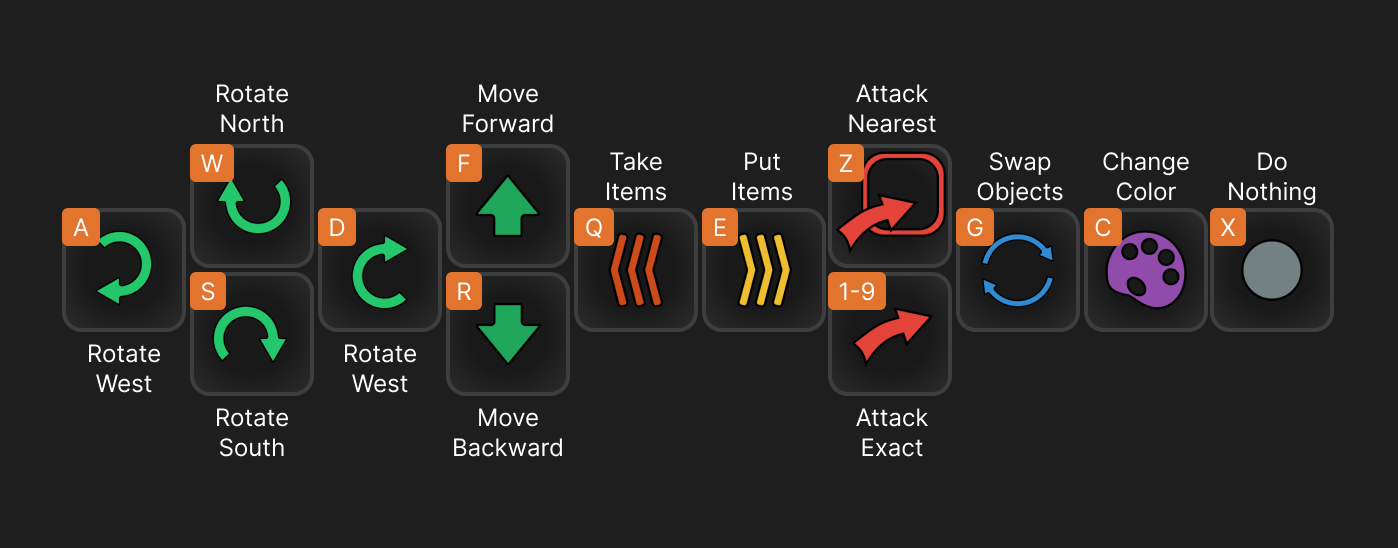
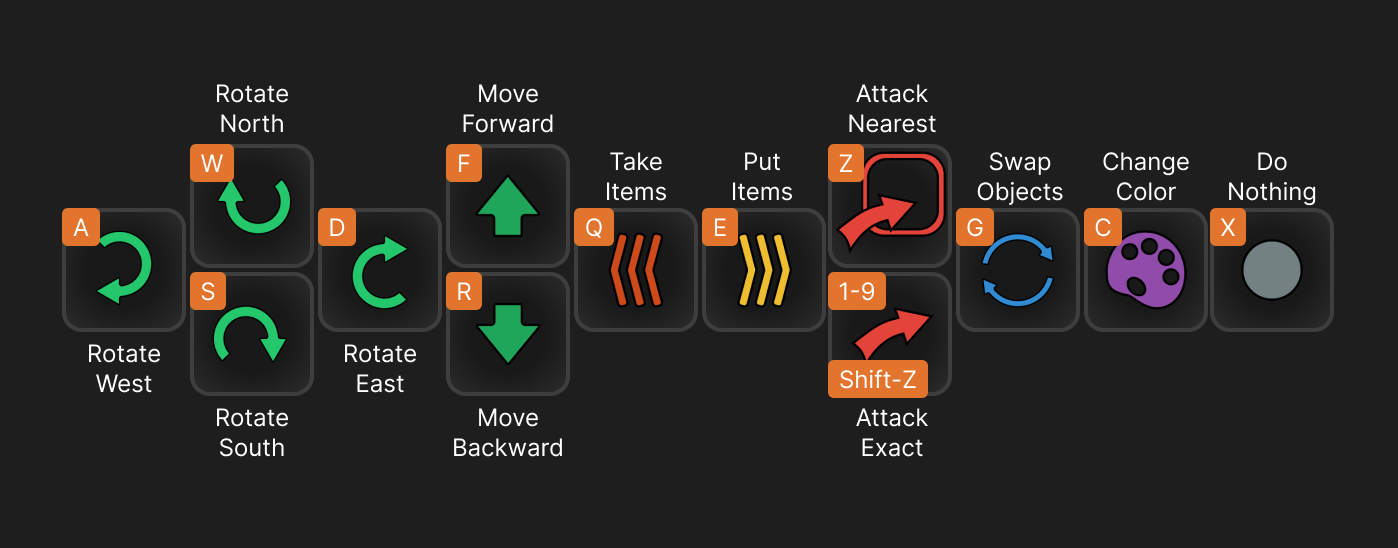
Update help page with improved layout and updated agent controls image

Changed region(s): [[0.5844, 0.6515, 0.6767, 0.7445], [0.2461, 0.6825, 0.3076, 0.7135]]

diff --git a/mettascope/mettascope_info.html b/mettascope/mettascope_info.html
@@ -6,39 +6,39 @@ body {
   background-color: #101a24;
   color: white;
   font-family: sans-serif;
-  line-height: 1.4;
-  padding: 20px;
+  line-height: 1.2;
+  padding: 15px;
   max-width: 800px;
   margin: 0 auto;
 }
 
 h1 {
   color: #24C76B;
-  font-size: 2em;
+  font-size: 1.4em;
   margin-top: 0;
-  margin-bottom: 0.3em;
+  margin-bottom: 0.2em;
   text-align: center;
 }
 
 h2 {
   color: #24C76B;
-  font-size: 1.5em;
-  margin-top: 1em;
-  margin-bottom: 0.5em;
+  font-size: 1.2em;
+  margin-top: 0.8em;
+  margin-bottom: 0.3em;
   border-bottom: 2px solid #24C76B;
-  padding-bottom: 0.2em;
+  padding-bottom: 0.1em;
 }
 
 h3 {
   color: #24C76B;
-  font-size: 1.2em;
-  margin-top: 0.8em;
-  margin-bottom: 0.4em;
+  font-size: 1em;
+  margin-top: 0.6em;
+  margin-bottom: 0.3em;
 }
 
 p {
-  margin-bottom: 0.8em;
-  font-size: 1em;
+  margin-bottom: 0.6em;
+  font-size: 0.85em;
 }
 
 a {
@@ -58,13 +58,13 @@ img {
 }
 
 ul, ol {
-  margin: 0.5em 0 1em 0;
-  padding-left: 1.2em;
+  margin: 0.3em 0 0.8em 0;
+  padding-left: 1em;
 }
 
 li {
-  margin-bottom: 0.5em;
-  font-size: 1em;
+  margin-bottom: 0.3em;
+  font-size: 0.85em;
 }
 
 strong {
@@ -74,9 +74,9 @@ strong {
 
 .controls-section {
   background-color: rgba(36, 199, 107, 0.1);
-  padding: 1em;
-  border-radius: 8px;
-  margin: 0.8em 0;
+  padding: 0.8em;
+  border-radius: 6px;
+  margin: 0.6em 0;
 }
 
 .features-list {
@@ -113,144 +113,28 @@ strong {
 .keyboard-controls {
   display: grid;
   grid-template-columns: repeat(2, 1fr);
-  gap: 0.5em;
-  margin: 0.5em 0;
+  gap: 0.3em;
+  margin: 0.3em 0;
 }
 
 .keyboard-control {
   background-color: rgba(36, 199, 107, 0.1);
-  padding: 0.3em;
+  padding: 0.2em;
   border-radius: 4px;
+  font-size: 0.85em;
 }
 
 .key {
   font-family: monospace;
   background-color: #2a2a2a;
-  padding: 0.2em 0.5em;
+  padding: 0.1em 0.4em;
   border-radius: 3px;
-  margin-right: 0.5em;
+  margin-right: 0.4em;
+  font-size: 0.85em;
 }
 </style>
 </head>
 <body>
-
-<h1>MettaScope</h1>
-
-<p>
-A visualization tool for analyzing and understanding AI agent behavior in Metta environments. MettaScope provides detailed insights into agent actions, decisions, and performance through an interactive interface.
-</p>
-
-<h2>Metta</h2>
-
-<p>
-Metta AI represents a sophisticated approach to multi-agent reinforcement learning, combining advanced neural architectures with carefully designed social mechanics. At its core, the system operates in a grid-based world where AI agents must learn to navigate, collect resources, and cooperate with others.
-</p>
-
-<p>
-The agent architecture features a three-component design:
-</p>
-
-<ul>
-  <li><strong>Convolutional Neural Network (CNN)</strong>: Processes spatial information across 34 channels, including agent positions, resource locations, obstacles, and team affiliations</li>
-  <li><strong>Long Short-Term Memory (LSTM)</strong>: Enables temporal reasoning and memory of past interactions</li>
-  <li><strong>Self-Knowledge Network</strong>: Manages internal state, including position, resources, health, and goals</li>
-</ul>
-
-<p>
-Agents operate in teams, typically containing six members, with relationship scores assigned at the start of the simulation. The reward sharing mechanism operates on a 50-50 split between team members, creating a complex optimization problem where agents must balance individual goals with team objectives. Learning how to cooperate with larger and more specialized groups represents the core agent intelligence development challenge.
-</p>
-
-<h2>What exactly am I looking at?</h2>
-
-<p>
-In this visualization, you're watching AI agents navigate and interact in a grid-based world. Here's what's happening:
-</p>
-
-<div class="controls-section">
-  <h3>Resource Collection</h3>
-  <p>
-    Agents are constantly searching for and collecting resources, particularly hearts (❤) which appear as glowing items in the environment. When an agent finds a heart, they can:
-  </p>
-  <ul>
-    <li><strong>Collect Hearts</strong>: Use the 'Q' key to pick up hearts when standing next to them</li>
-    <li><strong>Store Resources</strong>: Hearts and other resources are stored in the agent's inventory</li>
-    <li><strong>Share Resources</strong>: Agents can share resources with team members to help the group survive</li>
-  </ul>
-</div>
-
-<div class="controls-section">
-  <h3>Combat and Defense</h3>
-  <p>
-    Agents can engage in combat with other agents:
-  </p>
-  <ul>
-    <li><strong>Freezing Attacks</strong>: Agents can freeze other agents using the 'Z' key (nearest target) or number keys 1-9 (specific targets)</li>
-    <li><strong>Team Defense</strong>: Agents work together to protect team members and shared resources</li>
-    <li><strong>Strategic Positioning</strong>: Agents must position themselves carefully to avoid being frozen while protecting their resources</li>
-  </ul>
-</div>
-
-<div class="controls-section">
-  <h3>Movement and Navigation</h3>
-  <p>
-    Agents move through the world using a combination of:
-  </p>
-  <ul>
-    <li><strong>Rotation</strong>: Use 'W', 'A', 'S', 'D' to rotate the agent in different directions</li>
-    <li><strong>Forward/Backward</strong>: 'F' to move forward, 'R' to move backward</li>
-    <li><strong>Resource Management</strong>: 'E' to put down items, 'G' to swap objects with other agents</li>
-  </ul>
-</div>
-
-<div class="controls-section">
-  <h3>Team Coordination</h3>
-  <p>
-    The most fascinating aspect is watching how agents coordinate their actions to achieve team objectives:
-  </p>
-  <ul>
-    <li><strong>Resource Sharing</strong>: 
-      <ul>
-        <li>Agents actively distribute hearts among team members to ensure collective survival</li>
-        <li>When an agent has excess resources, they seek out teammates who are low on hearts</li>
-        <li>Teams develop specialized roles - some agents focus on resource collection while others protect the team's shared resources</li>
-      </ul>
-    </li>
-    <li><strong>Group Defense</strong>: 
-      <ul>
-        <li>Agents form defensive formations around valuable resources and vulnerable teammates</li>
-        <li>When under attack, agents coordinate their freezing actions to protect the team's heart supply</li>
-        <li>Teams establish territory control by maintaining a presence around key resource locations</li>
-      </ul>
-    </li>
-    <li><strong>Strategic Planning</strong>: 
-      <ul>
-        <li>Agents learn to balance immediate resource needs with long-term team survival</li>
-        <li>Teams develop complex strategies like resource stockpiling, territory control, and coordinated attacks</li>
-        <li>Individual agents may sacrifice personal resources to support critical team objectives</li>
-      </ul>
-    </li>
-    <li><strong>Communication and Coordination</strong>: 
-      <ul>
-        <li>Through their actions, agents develop an implicit communication system</li>
-        <li>Agents learn to interpret teammate movements and actions to predict team needs</li>
-        <li>Teams develop specialized roles and coordinated attack patterns</li>
-        <li>Agents adapt their behavior based on the team's current state and objectives</li>
-      </ul>
-    </li>
-  </ul>
-  <p>
-    The neural architecture enables this complex coordination through:
-  </p>
-  <ul>
-    <li><strong>Team Awareness</strong>: Agents maintain awareness of teammate positions, resources, and states</li>
-    <li><strong>Relationship Learning</strong>: The system learns to value team success alongside individual survival</li>
-    <li><strong>Adaptive Strategies</strong>: Teams develop and refine their coordination strategies through experience</li>
-  </ul>
-</div>
-
-<p>
-The action traces visualization (the colored lines and markers) shows you the history of these interactions. Different colors represent different types of actions - movement paths, resource collection points, interaction locations, and team coordination events. You can zoom in to see the details of specific interactions or zoom out to understand the overall strategy.
-</p>
 
 <h2>Controls</h2>
 
@@ -262,7 +146,7 @@ The action traces visualization (the colored lines and markers) shows you the hi
     <li><strong>Play/Pause</strong>: Control playback with the play/pause button</li>
     <li><strong>Frame Navigation</strong>: Step forward/backward to move frame by frame</li>
     <li><strong>Speed Control</strong>: Adjust playback speed using the speed controls</li>
-    <li><strong>Scrubbing</strong>: Drag the scrubber to jump to any point in the replay</li>
+    <li><strong>Timeline</strong>: Drag the scrubber on the timeline to jump to any point in the replay</li>
   </ul>
 </div>
 
@@ -270,12 +154,12 @@ The action traces visualization (the colored lines and markers) shows you the hi
   <h3>Visualization Controls</h3>
   <ul>
     <li><strong>Grid Toggle</strong>: Show/hide the grid with the grid button</li>
-    <li><strong>Resource Display</strong>: Toggle resource visibility with the heart icon</li>
+    <li><strong>Resource Display</strong>: Toggle visibility of resources (hearts and other items) with the heart icon</li>
     <li><strong>Fog of War</strong>: Show/hide fog of war with the cloud icon, revealing what agents can and cannot see</li>
     <li><strong>View Modes</strong>: 
       <ul>
         <li><strong>Pin Icon</strong>: Toggle agent following mode, keeping the selected agent centered</li>
-        <li><strong>Eye Icon</strong>: Toggle agent vision range visualization</li>
+        <li><strong>Eye Icon</strong>: Toggle agent vision range visualization to see how far each agent can see</li>
       </ul>
     </li>
   </ul>
@@ -291,10 +175,10 @@ The action traces visualization (the colored lines and markers) shows you the hi
     <li><strong>Pan</strong>: Click and drag to move around the trace view</li>
     <li><strong>Trace Colors</strong>: Different colors represent different types of actions:
       <ul>
-        <li>Movement paths</li>
-        <li>Resource collection points</li>
-        <li>Interaction locations</li>
-        <li>Team coordination events</li>
+        <li><span style="color: #24C76B">Green</span>: Movement and rotation actions</li>
+        <li><span style="color: #FF6B6B">Red</span>: Attack actions</li>
+        <li><span style="color: #FFD93D">Yellow</span>: Resource collection and management</li>
+        <li><span style="color: #4ECDC4">Cyan</span>: Frozen state</li>
       </ul>
     </li>
   </ul>
@@ -306,13 +190,29 @@ The action traces visualization (the colored lines and markers) shows you the hi
     <li><strong>Pan</strong>: Click and drag to move the view</li>
     <li><strong>Zoom</strong>: Use mouse wheel to zoom in/out</li>
     <li><strong>Selection</strong>: Click on units to select them</li>
-    <li><strong>Search</strong>: Use the filter field to find specific units</li>
+  </ul>
+</div>
+
+<div class="controls-section">
+  <h3>Agent Stats</h3>
+  <p>
+    When you select an agent, you can see their current state and attributes:
+  </p>
+  <ul>
+    <li><strong>Position</strong>: Current coordinates on the grid</li>
+    <li><strong>Orientation</strong>: Which direction the agent is facing</li>
+    <li><strong>Frozen State</strong>: Whether the agent is currently frozen</li>
+    <li><strong>Inventory</strong>: Resources and items the agent is carrying</li>
+    <li><strong>Team</strong>: Which team the agent belongs to</li>
+    <li><strong>Color</strong>: The agent's team color</li>
+    <li><strong>Actions</strong>: History of actions taken</li>
+    <li><strong>Rewards</strong>: Resources collected and rewards earned</li>
   </ul>
 </div>
 
 <h2>Agent Controls</h2>
 
-<img src="data/ui/agent_controls.png" alt="MettaScope Controls" class="controls-image">
+<img src="data/ui/agent_controls.png?v=1" alt="MettaScope Controls" class="controls-image">
 
 <p>
 When you select an agent, you can take direct control using these keyboard commands:
@@ -367,8 +267,6 @@ When controlling an agent, you can:
 <ul>
   <li><strong>View Agent Details</strong>: See the agent's current state, resources, and team affiliation</li>
   <li><strong>Track Movement</strong>: Follow the agent's path through the environment</li>
-  <li><strong>Analyze Behavior</strong>: Study the agent's decision-making patterns and interactions</li>
-  <li><strong>Team Context</strong>: Understand how the agent fits into its team's overall strategy</li>
 </ul>
 
 </body>
